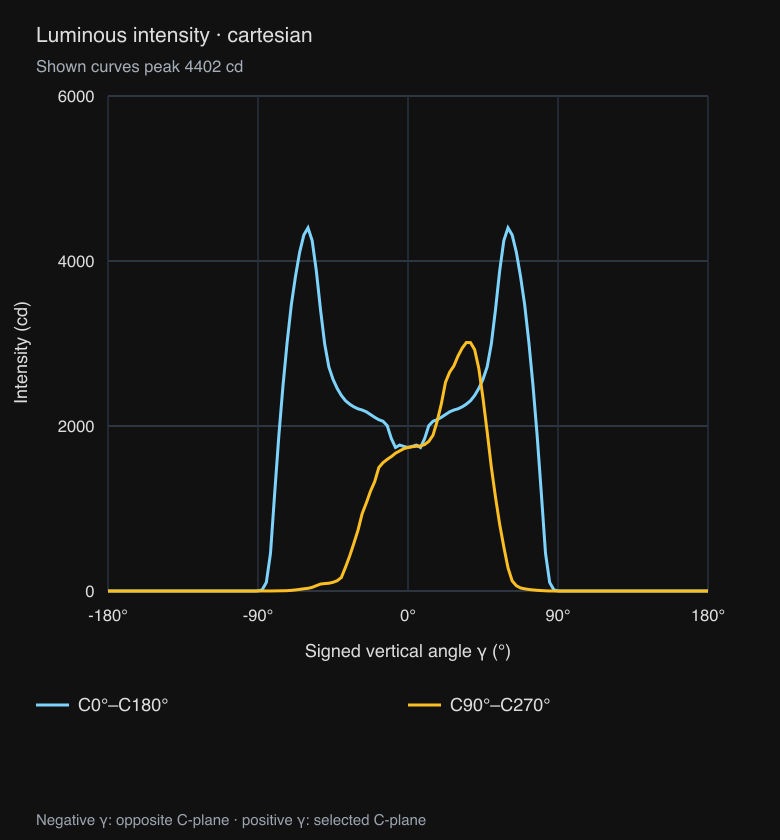
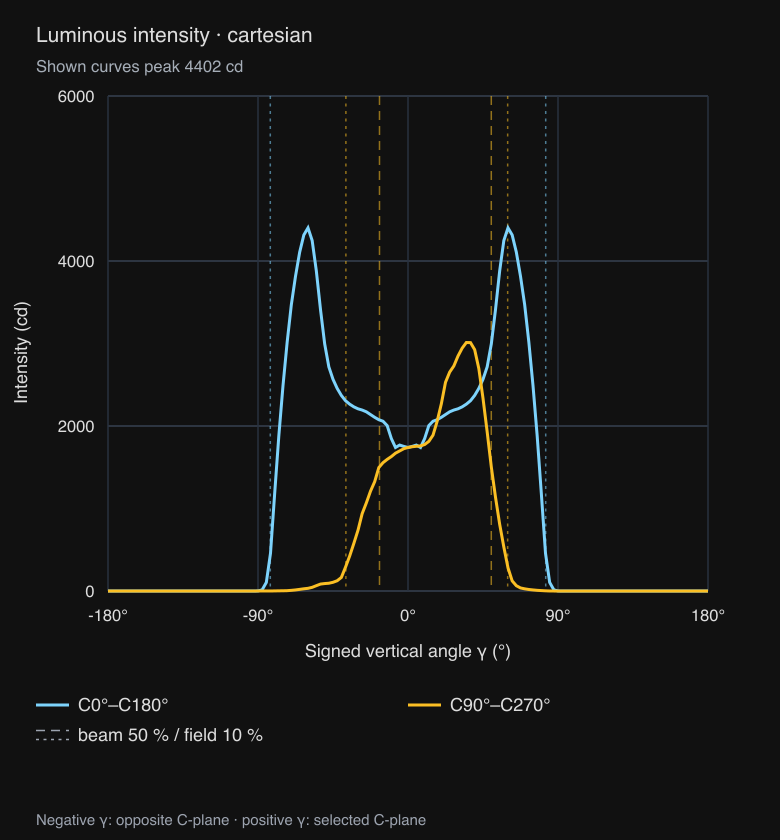
docs: regenerate chart screenshots and add log-scale and site isolux images
Regenerated with pnpm docs:charts. Adds polar-log, cartesian-log and
isolux-area, places each image in its graphs.md section with a caption,
and extends the CLI README gallery to every chart type.

Closes #81

Changed region(s): [[0.0923, 0.8667, 0.3385, 0.8976]]

diff --git a/packages/docs/docs/graphs.md b/packages/docs/docs/graphs.md
@@ -6,19 +6,16 @@ sidebar_position: 8
 
 The React graphs render SVG without creating a GPU context. They consume the same Type C `IESProfile` as the viewer. Their calculation and geometry APIs live in `@ies-tools/core`, which has no React, Three.js or DOM dependency and works in Node. `@ies-tools/viewer/graphs` re-exports them for compatibility, alongside the viewer's presentation helpers (`graphFrame`, `heatColor`).
 
-The same graphs, exported from an asymmetric BEGA luminaire with `ies chart`:
-
-<p>
-<img src="/img/charts/polar.png" alt="Polar luminous intensity chart of the C0–C180 and C90–C270 planes" width="49%" />
-<img src="/img/charts/cartesian.png" alt="Cartesian luminous intensity chart of the C0–C180 and C90–C270 planes" width="49%" />
-<img src="/img/charts/topology.png" alt="3D luminous intensity topology surface" width="49%" />
-<img src="/img/charts/isolux.png" alt="Isolux ground illuminance plot with contours" width="49%" />
-<img src="/img/charts/cone.png" alt="Cone diagram with centre illuminance and beam and field diameters by distance" width="49%" />
-<img src="/img/charts/luminance.png" alt="Glare-angle average luminance and intensity tables" width="49%" />
-<img src="/img/charts/intensity-table.png" alt="Heat-tinted luminous intensity table" width="49%" />
-</p>
+Every image on this page is exported with `ies chart` at 780×840 (cone 780×900, intensity table 780×640). Most use an asymmetric BEGA luminaire; the log-scale examples use a narrow-beam track light. Contributors regenerate them all with `pnpm build && pnpm docs:charts`; the fixtures and options live in [`scripts/chart-screenshots.mjs`](https://github.com/bhouston/ies-tools/blob/main/scripts/chart-screenshots.mjs).
 
 ## Complete intensity cuts
+
+<p>
+<img src="/img/charts/polar.png" alt="Polar luminous intensity chart of the C0–C180 and C90–C270 planes with beam and field markers" width="49%" />
+<img src="/img/charts/cartesian.png" alt="Cartesian luminous intensity chart of the C0–C180 and C90–C270 planes with beam and field markers" width="49%" />
+</p>
+
+_Principal planes of the BEGA luminaire, with dashed beam (50 %) and dotted field (10 %) markers._
 
 ```tsx
 import { IntensityGraph } from '@ies-tools/viewer/react';
@@ -48,7 +45,20 @@ Vertical cuts also carry `curve.beam`, the [`getBeamAngles`](./core.md) estimate
 
 `logScale` applies to polar and Cartesian views. Intensities at or below Imin sit at the centre (or the Cartesian baseline), and the rings or ticks fall on 1-2-5 candela values in each decade. `logRadius` and `logTicks` from `@ies-tools/core` expose the same mapping. The light viewer's chart tabs have a **Log scale** checkbox, and `ies chart --log-scale` exports the same view.
 
+<p>
+<img src="/img/charts/polar-log.png" alt="Log-scale polar intensity chart of a narrow-beam track light" width="49%" />
+<img src="/img/charts/cartesian-log.png" alt="Log-scale Cartesian intensity chart of a narrow-beam track light" width="49%" />
+</p>
+
+_`--log-scale` on a rotationally symmetric 15° track light, so both planes coincide; the shoulders below 1 % of the peak become visible._
+
 ## Intensity topology
+
+<p>
+<img src="/img/charts/topology.png" alt="3D luminous intensity topology surface" width="49%" />
+</p>
+
+_Candela-scaled surface of the BEGA luminaire, orthographic, Y up._
 
 ```tsx
 <IntensityGraph
@@ -69,6 +79,13 @@ The topology is a full candela-scaled surface, projected to SVG. `surface` is `f
 `horizontalSegments` defaults to 36 and ranges from 4 to 144; `verticalSegments` defaults to 36 and ranges from 2 to 144. Unlike the curve plots, topology uses a regular resampled angular grid: increase its resolution for very narrow features. Its caption reports the **sampled surface peak**, rather than claiming the global measured peak. This is a surface diagram with depth-sorted triangles, rather than a 3D renderer with a depth buffer.
 
 ## Ground illuminance / isolux
+
+<p>
+<img src="/img/charts/isolux.png" alt="Isolux ground illuminance plot with labelled contours at 2 m mounting height" width="49%" />
+<img src="/img/charts/isolux-area.png" alt="Isolux plot of a 30 m site at 6 m mounting height with 1-2-5 lux contours" width="49%" />
+</p>
+
+_Left: 2 m mounting height over 10 m. Right: `--mounting-height 6 --extent 30 --resolution 121`, with 1–50 lx contours._
 
 ```tsx
 import { IsoluxGraph } from '@ies-tools/viewer/react';
@@ -111,6 +128,17 @@ Fixture aiming is a geometric rotation. It does **not** automatically change the
 This is direct illumination from measured angular intensity. It does not simulate indirect light, occlusion, luminaire aperture near-field effects, or room reflections. Type A/B data are rejected until a validated coordinate transform is available. Invalid dimensions, angles, sample counts and contour grids throw descriptive errors instead of producing invalid SVG.
 
 ## Cone diagram, glare luminance and intensity tables
+
+<p>
+<img src="/img/charts/cone.png" alt="Cone diagram with centre illuminance and beam and field diameters by distance" width="49%" />
+<img src="/img/charts/luminance.png" alt="Glare-angle average luminance and intensity tables" width="49%" />
+</p>
+
+<p>
+<img src="/img/charts/intensity-table.png" alt="Heat-tinted luminous intensity table" width="49%" />
+</p>
+
+_Cone diagram, glare-angle luminance, and the intensity table thinned with `--max-columns 10 --max-rows 19`._
 
 ```tsx
 import { ConeDiagramGraph, IntensityTableGraph, LuminanceTableGraph } from '@ies-tools/viewer/react';

diff --git a/packages/cli/README.md b/packages/cli/README.md
@@ -34,13 +34,17 @@ ies chart luminaire.ies -o table.png --type intensity-table --unit cd/klm --max-
 
 `render` captures the shared `<light-viewer>` with its black background, ground and wall. It uses an installed Chrome, Edge or cached Playwright Chromium; installation does not download a browser. Set `IES_BROWSER` or `--browser` to an explicit executable. The renderer is queried from the actual WebGL2 canvas and must identify a hardware GPU: SwiftShader, llvmpipe, lavapipe, other software rasterizers and masked/unknown adapters are rejected. Rendering waits for GPU completion before capturing PNG. `--json` includes the confirmed GPU vendor, renderer and WebGL version. This is a still-image export, not a rendering benchmark.
 
-Charts of an asymmetric BEGA luminaire, exported with `ies chart --type <type> --width 780 --height 840`:
+Charts of an asymmetric BEGA luminaire, exported with `ies chart --type <type> --width 780 --height 840` (cone 780×900, intensity table 780×640); the last one is a narrow-beam track light with `--log-scale`:
 
 <p>
-<img src="https://raw.githubusercontent.com/bhouston/ies-tools/main/packages/docs/static/img/charts/polar.png" alt="Polar luminous intensity chart of the C0–C180 and C90–C270 planes" width="390" />
-<img src="https://raw.githubusercontent.com/bhouston/ies-tools/main/packages/docs/static/img/charts/cartesian.png" alt="Cartesian luminous intensity chart of the C0–C180 and C90–C270 planes" width="390" />
+<img src="https://raw.githubusercontent.com/bhouston/ies-tools/main/packages/docs/static/img/charts/polar.png" alt="Polar luminous intensity chart of the C0–C180 and C90–C270 planes with beam and field markers" width="390" />
+<img src="https://raw.githubusercontent.com/bhouston/ies-tools/main/packages/docs/static/img/charts/cartesian.png" alt="Cartesian luminous intensity chart of the C0–C180 and C90–C270 planes with beam and field markers" width="390" />
 <img src="https://raw.githubusercontent.com/bhouston/ies-tools/main/packages/docs/static/img/charts/topology.png" alt="3D luminous intensity topology surface" width="390" />
-<img src="https://raw.githubusercontent.com/bhouston/ies-tools/main/packages/docs/static/img/charts/isolux.png" alt="Isolux ground illuminance plot with contours" width="390" />
+<img src="https://raw.githubusercontent.com/bhouston/ies-tools/main/packages/docs/static/img/charts/isolux.png" alt="Isolux ground illuminance plot with labelled contours at 2 m mounting height" width="390" />
+<img src="https://raw.githubusercontent.com/bhouston/ies-tools/main/packages/docs/static/img/charts/cone.png" alt="Cone diagram with centre illuminance and beam and field diameters by distance" width="390" />
+<img src="https://raw.githubusercontent.com/bhouston/ies-tools/main/packages/docs/static/img/charts/luminance.png" alt="Glare-angle average luminance and intensity tables" width="390" />
+<img src="https://raw.githubusercontent.com/bhouston/ies-tools/main/packages/docs/static/img/charts/intensity-table.png" alt="Heat-tinted luminous intensity table" width="390" />
+<img src="https://raw.githubusercontent.com/bhouston/ies-tools/main/packages/docs/static/img/charts/polar-log.png" alt="Log-scale polar intensity chart of a narrow-beam track light" width="390" />
 </p>
 
 `chart` reuses the shared React photometric diagrams and exports SVG or PNG. Types are `polar`, `cartesian`, `topology`, `isolux`, `cone`, `luminance` and `intensity-table`. Default vertical polar/Cartesian plots include the principal planes. Use `--axis vertical|horizontal --angle <degrees>` for an explicit slice, or `--up-axis x|y|z` for topology. `--log-scale` plots polar and Cartesian intensity over three decades on a log scale. Polar and Cartesian charts mark the beam (50 %) and field (10 %) crossings of each vertical cut. Isolux accepts mounting height and square ground extent in meters, plus grid resolution. Contours default to a labelled 1-2-5 lux series (1, 2, 5, 10, 20, 50, …) from `--min-contour` (default 1 lx) up to the grid peak, capped at 10 levels by dropping the lowest; `--contours 1,2,5,10` sets explicit levels. `--color-scale log|linear` picks the heatmap mapping (default `log`, so low-light spill stays visible). The stats line reports uniformity U0 = Emin / Eavg. `cone` tabulates centre illuminance and beam/field diameters at 1…`--max-distance` meters (default 5). `luminance` tabulates glare-angle average luminance (γ 45–85°, C 0–315°) over the declared luminous opening. `intensity-table` shows the measured candela grid in `--unit cd|cd/klm`; `--max-columns` and `--max-rows` thin large grids to evenly spaced angles for fixed-size images. With `--json`, these three types add a `values` object with the tabulated data. Chart PNGs use Sharp to rasterize SVG; this 2D operation does not require a GPU.
